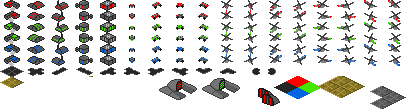
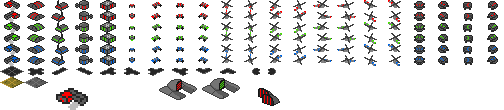
Add Harvester.

diff --git a/src/sk/neuromancer/Xune/level/paths/Pathfinder.java b/src/sk/neuromancer/Xune/level/paths/Pathfinder.java
@@ -2,6 +2,7 @@ package sk.neuromancer.Xune.level.paths;
 
 import sk.neuromancer.Xune.entity.Entity;
 import sk.neuromancer.Xune.entity.building.Building;
+import sk.neuromancer.Xune.entity.unit.Unit;
 import sk.neuromancer.Xune.game.Tickable;
 import sk.neuromancer.Xune.gfx.Renderable;
 import sk.neuromancer.Xune.level.Level;
@@ -47,7 +48,7 @@ public class Pathfinder implements Tickable, Renderable {
             return false;
         }
         for (Point end : ends) {
-            if (end.equals(dest) || isNextTo(end, dest)) {
+            if (end.equals(dest) || end.isNextTo(dest)) {
                 return false;
             }
         }
@@ -89,9 +90,6 @@ public class Pathfinder implements Tickable, Renderable {
     }
 
     public Path find(Point src, Point dest) {
-        //if (!isPassable(src)) {
-        //    return null;
-        //}
         dest = findValidDestination(dest, 50);
         if (dest == null) {
             return null;
@@ -99,7 +97,7 @@ public class Pathfinder implements Tickable, Renderable {
         PriorityQueue<Node> openSet = new PriorityQueue<>(Comparator.comparingDouble(n -> n.f));
         Map<Point, Node> allNodes = new HashMap<>();
 
-        Node startNode = new Node(src, null, 0, heuristic(src, dest));
+        Node startNode = new Node(src, null, 0, src.heuristic(dest));
         openSet.add(startNode);
         allNodes.put(src, startNode);
 
@@ -120,12 +118,12 @@ public class Pathfinder implements Tickable, Renderable {
             for (Point neighbor : current.point.getNeighbors()) {
                 if (!isPassable(neighbor)) continue;
 
-                double tentativeG = current.g + distance(current.point, neighbor);
+                double tentativeG = current.g + current.point.distance(neighbor);
                 Node neighborNode = allNodes.getOrDefault(neighbor, new Node(neighbor));
 
                 if (tentativeG < neighborNode.g) {
                     neighborNode.g = tentativeG;
-                    neighborNode.f = tentativeG + heuristic(neighbor, dest);
+                    neighborNode.f = tentativeG + neighbor.heuristic(dest);
                     neighborNode.cameFrom = current;
                     openSet.add(neighborNode);
                     allNodes.put(neighbor, neighborNode);
@@ -176,18 +174,6 @@ public class Pathfinder implements Tickable, Renderable {
         return new Path(path.toArray(new Point[0]));
     }
 
-    private double heuristic(Point a, Point b) {
-        return Math.max(Math.abs(a.x - b.x), Math.abs(a.y - b.y));
-    }
-
-    private double distance(Point a, Point b) {
-        return Math.hypot(a.x - b.x, a.y - b.y);
-    }
-
-    private boolean isNextTo(Point p, Point q) {
-        return Math.abs(p.x - q.x) <= 1 && Math.abs(p.y - q.y) <= 1;
-    }
-
     private boolean isPassable(Point p) {
         return levelMap.isPassable(p) && !buildingMap.isPassable(p) && !entityMap.isPassable(p);
     }
@@ -195,9 +181,11 @@ public class Pathfinder implements Tickable, Renderable {
     public void addEntity(Entity.PlayableEntity e) {
         if (e instanceof Building building) {
             buildingMap.setTile(building.tileX, building.tileY, negate(building.getPassable()));
-        } else {
-            entities.add(e);
-            entityMap.set(levelXToGrid(e.x), levelYToGrid(e.y));
+        } else if (e instanceof Unit unit) {
+            entities.add(unit);
+            for (Point point : unit.getOccupied()) {
+                entityMap.set(point);
+            }
         }
     }
 
@@ -212,9 +200,11 @@ public class Pathfinder implements Tickable, Renderable {
     public void removeEntity(Entity.PlayableEntity e) {
         if (e instanceof Building building) {
             buildingMap.resetTile(building.tileX, building.tileY);
-        } else {
-            entities.remove(e);
-            entityMap.reset(levelXToGrid(e.x), levelYToGrid(e.y));
+        } else if (e instanceof Unit unit) {
+            entities.remove(unit);
+            for (Point point : unit.getOccupied()) {
+                entityMap.reset(point);
+            }
         }
     }
 
@@ -239,7 +229,11 @@ public class Pathfinder implements Tickable, Renderable {
         paths.clear();
         entityMap.resetAll();
         for (Entity e : entities) {
-            entityMap.set(levelXToGrid(e.x), levelYToGrid(e.y));
+            if (e instanceof Unit unit) {
+                for (Point point : unit.getOccupied()) {
+                    entityMap.set(point);
+                }
+            }
         }
     }
 

diff --git a/src/sk/neuromancer/Xune/game/Player.java b/src/sk/neuromancer/Xune/game/Player.java
@@ -4,7 +4,9 @@ import sk.neuromancer.Xune.entity.*;
 import sk.neuromancer.Xune.entity.Entity.PlayableEntity;
 import sk.neuromancer.Xune.entity.building.*;
 import sk.neuromancer.Xune.entity.unit.Buggy;
+import sk.neuromancer.Xune.entity.unit.Harvester;
 import sk.neuromancer.Xune.entity.unit.Heli;
+import sk.neuromancer.Xune.gfx.Effect;
 import sk.neuromancer.Xune.level.Level;
 
 import java.util.*;
@@ -29,13 +31,17 @@ public class Player extends EntityOwner {
         this.addEntity(new Buggy(tileCenterX(6, 8), tileCenterY(6, 8), Orientation.SOUTHEAST, this, this.flag));
         this.addEntity(new Buggy(tileCenterX(8, 4), tileCenterY(8, 4), Orientation.EAST, this, this.flag));
         this.addEntity(new Heli(tileCenterX(7, 7), tileCenterY(7, 7), Orientation.EAST, this, this.flag));
+        this.addEntity(new Harvester(tileCenterX(11, 8), tileCenterY(11, 8), Orientation.SOUTHEAST, this, this.flag));
 
         Buggy buggy = new Buggy(tileCenterX(6, 6), tileCenterY(6, 6), Orientation.EAST, this, this.flag);
         Command produceBuggy = new Command.ProduceCommand(TPS * 5, buggy);
         factory.pushCommand(produceBuggy);
 
-        commandStrategies.put(Heli.class, new CommandStrategy.AirStrategy());
-        commandStrategies.put(Buggy.class, new CommandStrategy.GroundStrategy());
+        commandStrategies.put(Heli.class, new CommandStrategy.AirAttackStrategy());
+        commandStrategies.put(Buggy.class, new CommandStrategy.GroundAttackStrategy());
+        commandStrategies.put(Harvester.class, new CommandStrategy.SpiceCollectStrategy());
+
+        this.effects.add(new Effect.Fire(factory.x, factory.y));
     }
 
     @Override

diff --git a/src/sk/neuromancer/Xune/entity/unit/Harvester.java b/src/sk/neuromancer/Xune/entity/unit/Harvester.java
@@ -1,15 +1,18 @@
 package sk.neuromancer.Xune.entity.unit;
 
-import sk.neuromancer.Xune.entity.*;
+import sk.neuromancer.Xune.entity.Command;
+import sk.neuromancer.Xune.entity.EntityOwner;
+import sk.neuromancer.Xune.entity.Flag;
+import sk.neuromancer.Xune.entity.Orientation;
 import sk.neuromancer.Xune.gfx.SpriteSheet;
 import sk.neuromancer.Xune.level.paths.Pathfinder;
 import sk.neuromancer.Xune.level.paths.Point;
 
-public class Buggy extends Unit {
-    public Buggy(float x, float y, Orientation orientation, EntityOwner owner, Flag flag) {
-        super(x, y, orientation, owner, flag, 100, 0.5f, 20f, 30, 10);
+public class Harvester extends Unit {
+    public Harvester(float x, float y, Orientation orientation, EntityOwner owner, Flag flag) {
+        super(x, y, orientation, owner, flag, 300, 0.07f, 0, 0, 0);
         updateSprite();
-        this.clickableAreas.add(Clickable.ClickableCircle.getCentered(x, y, 5, false));
+        this.clickableAreas.add(ClickableCircle.getCentered(x, y, 6, false));
     }
 
     @Override
@@ -25,7 +28,7 @@ public class Buggy extends Unit {
     protected void updateSprite() {
         int spriteRow = orientation.ordinal() / 4;
         int spriteOffset = orientation.ordinal() % 4;
-        this.sprite = SpriteSheet.ENTITY_SHEET.getSprite(SpriteSheet.SPRITE_ID_BUGGY + SpriteSheet.flagToOffset(flag) + spriteRow * SpriteSheet.SPRITE_ROW_LENGTH + spriteOffset);
+        this.sprite = SpriteSheet.ENTITY_SHEET.getSprite(SpriteSheet.SPRITE_ID_HARVESTER + SpriteSheet.flagToOffset(flag) + spriteRow * SpriteSheet.SPRITE_ROW_LENGTH + spriteOffset);
     }
 
     public Point[] getOccupied() {

diff --git a/src/sk/neuromancer/Xune/entity/CommandStrategy.java b/src/sk/neuromancer/Xune/entity/CommandStrategy.java
@@ -5,7 +5,7 @@ import sk.neuromancer.Xune.level.Level;
 public abstract class CommandStrategy {
     public abstract Command createCommand(Entity entity, Entity other, Level level, float levelX, float levelY);
 
-    public static class GroundStrategy extends CommandStrategy {
+    public static class GroundAttackStrategy extends CommandStrategy {
         @Override
         public Command createCommand(Entity entity, Entity other, Level level, float levelX, float levelY) {
             try {
@@ -21,13 +21,26 @@ public abstract class CommandStrategy {
         }
     }
 
-    public static class AirStrategy extends CommandStrategy {
+    public static class AirAttackStrategy extends CommandStrategy {
         @Override
         public Command createCommand(Entity entity, Entity other, Level level, float levelX, float levelY) {
             if (other != null) {
                 return new Command.FlyAndAttackCommand(entity.x, entity.y, other);
             } else {
                 return new Command.FlyCommand(entity.x, entity.y, levelX, levelY);
+            }
+        }
+    }
+
+    public static class SpiceCollectStrategy extends CommandStrategy {
+
+        @Override
+        public Command createCommand(Entity entity, Entity other, Level level, float levelX, float levelY) {
+            try {
+                return new Command.MoveCommand(entity.x, entity.y, levelX, levelY, level.getPathfinder());
+            } catch (IllegalArgumentException e) {
+                System.out.println("No path found");
+                return null;
             }
         }
     }

diff --git a/src/sk/neuromancer/Xune/entity/unit/Heli.java b/src/sk/neuromancer/Xune/entity/unit/Heli.java
@@ -5,6 +5,7 @@ import sk.neuromancer.Xune.entity.EntityOwner;
 import sk.neuromancer.Xune.entity.Flag;
 import sk.neuromancer.Xune.entity.Orientation;
 import sk.neuromancer.Xune.gfx.SpriteSheet;
+import sk.neuromancer.Xune.level.paths.Point;
 
 import static org.lwjgl.opengl.GL11.*;
 
@@ -13,7 +14,7 @@ public class Heli extends Unit {
     private boolean wing;
 
     public Heli(float x, float y, Orientation orientation, EntityOwner owner, Flag flag) {
-        super(x, y, orientation, owner, flag, 100, 1.5f, 30f, 10, 2);
+        super(x, y, orientation, owner, flag, 100, 1.2f, 30f, 10, 2);
         updateSprite();
         this.clickableAreas.add(ClickableCircle.getCentered(x, y, 7, false));
     }
@@ -63,5 +64,9 @@ public class Heli extends Unit {
             animation = (i % 4) * 2 + SpriteSheet.SPRITE_ROW_LENGTH;
         }
         this.sprite = SpriteSheet.ENTITY_SHEET.getSprite(SpriteSheet.SPRITE_ID_HELI + SpriteSheet.flagToOffset(flag) + (wing ? 1 : 0) + animation);
+    }
+
+    public Point[] getOccupied() {
+        return new Point[]{};
     }
 }

diff --git a/src/sk/neuromancer/Xune/entity/building/Building.java b/src/sk/neuromancer/Xune/entity/building/Building.java
@@ -33,6 +33,25 @@ public abstract class Building extends Entity.PlayableEntity {
         this.sprite.render();
         if (isSelected) {
             SpriteSheet.MISC_SHEET.getSprite(1, 0).render();
+            glPushMatrix();
+            glTranslatef(0, sprite.getHeight(), 0);
+            glBegin(GL_QUADS);
+            glColor3f(0, 1, 0);
+            float healthPercentage = (float) health / maxHealth;
+            for (int i = 0; i < 12; i++) {
+                if (i < healthPercentage * 12) {
+                    glColor3f(0, 1, 0);
+                } else {
+                    glColor3f(1, 0, 0);
+                }
+                glVertex2f(((float) 25 / 12) * i, 0);
+                glVertex2f(((float) 25 / 12) * i + 1, 0);
+                glVertex2f(((float) 25 / 12) * i + 1, 1);
+                glVertex2f(((float) 25 / 12) * i, 1);
+            }
+            glEnd();
+            glColor3f(1, 1, 1);
+            glPopMatrix();
         }
         glPopMatrix();
     }

diff --git a/src/sk/neuromancer/Xune/gfx/Effect.java b/src/sk/neuromancer/Xune/gfx/Effect.java
@@ -16,6 +16,8 @@ public class Effect implements Tickable, Renderable {
     private Sprite sprite;
 
     public static int EXPLOSION = 0;
+    public static int SPARKLE = 8;
+    public static int FIRE = 16;
 
     Effect(float x, float y, int type, int length, int duration, DoubleUnaryOperator ease) {
         this.x = x;
@@ -53,6 +55,18 @@ public class Effect implements Tickable, Renderable {
     public static class Explosion extends Effect {
         public Explosion(float x, float y) {
             super(x, y, EXPLOSION, 8, 200, Ease::easeOutSine);
+        }
+    }
+
+    public static class Sparkle extends Effect {
+        public Sparkle(float x, float y) {
+            super(x, y, SPARKLE, 4, 250, Ease::linear);
+        }
+    }
+
+    public static class Fire extends Effect {
+        public Fire(float x, float y) {
+            super(x, y - 10, FIRE, 8, 1000, Ease::linear);
         }
     }
 }

diff --git a/src/sk/neuromancer/Xune/entity/EntityOwner.java b/src/sk/neuromancer/Xune/entity/EntityOwner.java
@@ -1,5 +1,6 @@
 package sk.neuromancer.Xune.entity;
 
+import sk.neuromancer.Xune.entity.building.Building;
 import sk.neuromancer.Xune.game.Game;
 import sk.neuromancer.Xune.game.Tickable;
 import sk.neuromancer.Xune.gfx.Effect;
@@ -88,8 +89,11 @@ public class EntityOwner implements Tickable, Renderable {
     protected void handleDead() {
         for (Entity.PlayableEntity e : entities) {
             if (e.health == 0) {
-                toRemove.add(e);
+                removeEntity(e);
                 this.effects.add(new Effect.Explosion(e.x, e.y));
+                if (e instanceof Building) {
+                    this.effects.add(new Effect.Sparkle(e.x, e.y));
+                }
                 game.getSound().play(SoundManager.SOUND_EXPLOSION_1, false, 1.0f);
             }
         }

diff --git a/src/sk/neuromancer/Xune/entity/unit/Unit.java b/src/sk/neuromancer/Xune/entity/unit/Unit.java
@@ -6,6 +6,7 @@ import sk.neuromancer.Xune.entity.Flag;
 import sk.neuromancer.Xune.entity.Orientation;
 import sk.neuromancer.Xune.game.Game;
 import sk.neuromancer.Xune.gfx.SpriteSheet;
+import sk.neuromancer.Xune.level.paths.Point;
 import sk.neuromancer.Xune.sfx.SoundManager;
 
 import static org.lwjgl.opengl.GL11.*;
@@ -68,7 +69,7 @@ public abstract class Unit extends Entity.PlayableEntity {
     public void tick(int tickCount) {
         super.tick(tickCount);
         ready++;
-        if (ready % rate == 0) {
+        if (rate != 0 && ready % rate == 0) {
             ready = 0;
         }
     }
@@ -106,4 +107,6 @@ public abstract class Unit extends Entity.PlayableEntity {
         }
         glPopMatrix();
     }
+
+    public abstract Point[] getOccupied();
 }

diff --git a/src/sk/neuromancer/Xune/level/paths/Point.java b/src/sk/neuromancer/Xune/level/paths/Point.java
@@ -30,6 +30,22 @@ public class Point {
         return Pathfinder.gridYToLevel(y);
     }
 
+    public Point add(Point other) {
+        return new Point(x + other.x, y + other.y);
+    }
+
+    public boolean isNextTo(Point q) {
+        return Math.abs(x - q.x) <= 1 && Math.abs(y - q.y) <= 1;
+    }
+
+    public double distance(Point b) {
+        return Math.hypot(x - b.x, y - b.y);
+    }
+
+    public double heuristic(Point b) {
+        return Math.max(Math.abs(x - b.x), Math.abs(y - b.y));
+    }
+
     public Point[] getNeighbors() {
         if ((x + y) % 2 == 0) {
             return new Point[]{
@@ -56,5 +72,6 @@ public class Point {
     public String toString() {
         return "Point{" + "x=" + x + ", y=" + y + '}';
     }
+
 
 }

diff --git a/src/sk/neuromancer/Xune/gfx/SpriteSheet.java b/src/sk/neuromancer/Xune/gfx/SpriteSheet.java
@@ -33,8 +33,9 @@ public class SpriteSheet {
     public static final int SPRITE_ID_HELIPAD = 4;
     public static final int SPRITE_ID_BUGGY = 5;
     public static final int SPRITE_ID_HELI = 9;
+    public static final int SPRITE_ID_HARVESTER = 17;
 
-    public static final int SPRITE_ROW_LENGTH = 17;
+    public static final int SPRITE_ROW_LENGTH = 21;
 
     public static final int SPRITE_OFFSET_RED = 0;
     public static final int SPRITE_OFFSET_GREEN = SPRITE_ROW_LENGTH * 2;

diff --git a/src/sk/neuromancer/Xune/level/paths/PassMap.java b/src/sk/neuromancer/Xune/level/paths/PassMap.java
@@ -81,6 +81,14 @@ public class PassMap {
         fillTile(set, col, row, PASS_NONE);
     }
 
+    public void set(Point p) {
+        set(p.x, p.y);
+    }
+
+    public void reset(Point p) {
+        reset(p.x, p.y);
+    }
+
     public void set(int col, int row) {
         pass[row][col] = true;
         set[row][col] = true;
